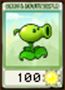
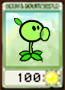
updated plant card images

Changed region(s): [[0.1846, 0.2, 0.8923, 0.7111], [0.1538, 0.4444, 0.1846, 0.4667], [0.1231, 0.4222, 0.1538, 0.4444]]

diff --git a/GameScreen.java b/GameScreen.java
@@ -18,7 +18,11 @@ public class GameScreen extends JFrame {
         setDefaultCloseOperation(WindowConstants.EXIT_ON_CLOSE);
         setLayout(null);
 
-        JLabel sun = new JLabel("SUN");
+        JLabel sun = new JLabel("sun");
+        sun.setLocation(37, 80);
+        sun.setSize(60, 20);
+
+        JLabel sunBar = new JLabel(new ImageIcon(Objects.requireNonNull(this.getClass().getResource("images/sunBar.png"))));
         sun.setLocation(37, 80);
         sun.setSize(60, 20);
 
@@ -26,18 +30,18 @@ public class GameScreen extends JFrame {
         gp.setLocation(0, 0);
         getLayeredPane().add(gp, 0);
 
-        PlantCard peashooterCard = new PlantCard(new ImageIcon(Objects.requireNonNull(this.getClass().getResource("images/cards/peashooterCard.png"))).getImage());
-        peashooterCard.setAction((ActionEvent e) -> gp.setCurrentPlantingBrush(PlantType.Peashooter));
-        peashooterCard.setLocation(100, 8);
-        getLayeredPane().add(peashooterCard, 0);
 
         PlantCard sunflowerCard = new PlantCard(new ImageIcon(Objects.requireNonNull(this.getClass().getResource("images/cards/sunflowerCard.png"))).getImage());
         sunflowerCard.setAction((ActionEvent e) -> gp.setCurrentPlantingBrush(PlantType.Sunflower));
-        sunflowerCard.setLocation(170, 8);
+        sunflowerCard.setLocation(110, 8);
         getLayeredPane().add(sunflowerCard, 0);
 
+        PlantCard peashooterCard = new PlantCard(new ImageIcon(Objects.requireNonNull(this.getClass().getResource("images/cards/peashooterCard.png"))).getImage());
+        peashooterCard.setAction((ActionEvent e) -> gp.setCurrentPlantingBrush(PlantType.Peashooter));
+        peashooterCard.setLocation(175, 8);
+        getLayeredPane().add(peashooterCard, 0);
 
-
+        getLayeredPane().add(sunBar, 1);
         getLayeredPane().add(sun, 0);
         setResizable(false);
         setVisible(true);

diff --git a/GamePanel.java b/GamePanel.java
@@ -53,7 +53,7 @@ public class GamePanel extends JLayeredPane implements MouseMotionListener {
         generateTimer.start();
 
         activeSuns = new ArrayList<>();
-        Timer sunProducer = new Timer(5000, (ActionEvent e) -> {
+        Timer sunProducer = new Timer(7500, (ActionEvent e) -> {
             Random rand = new Random();
             Sun sun = new Sun(this, rand.nextInt(800) + 100, 0, rand.nextInt(300) + 200);
             activeSuns.add(sun);
@@ -113,14 +113,6 @@ public class GamePanel extends JLayeredPane implements MouseMotionListener {
 
 
     private void generate() {
-        //draw peas
-        for (int i = 0; i < 5; i++) {
-            for (int j = 0; j < peaLanes.get(i).size(); j++) {
-                Pea p = peaLanes.get(i).get(j);
-                p.move();
-            }
-        }
-
         //produce sun
         for (int i = 0; i < activeSuns.size(); i++) {
             activeSuns.get(i).create();
@@ -132,9 +124,15 @@ public class GamePanel extends JLayeredPane implements MouseMotionListener {
         super.paintComponent(g);
         g.drawImage(bgImage, 0, 0, null);
 
+        //draw peas
+        for (int i = 0; i < 5; i++) {
+            for (int j = 0; j < peaLanes.get(i).size(); j++) {
+                Pea p = peaLanes.get(i).get(j);
+                p.move();
+            }
+        }
 
-
-        //Draw Plants
+        //draw plants
         for (int i = 0; i < 45; i++) {
             Collider c = colliders[i];
             if (c.assignedPlant != null) {

diff --git a/Sunflower.java b/Sunflower.java
@@ -7,7 +7,7 @@ public class Sunflower extends Plant {
 
     public Sunflower(GamePanel parent, int x, int y) {
         super(parent, x, y);
-        sunProduceTimer = new Timer(15000, (ActionEvent e) -> {
+        sunProduceTimer = new Timer(10000, (ActionEvent e) -> {
             Sun sun = new Sun(getGp(), 60 + x * 100, 110 + y * 120, 130 + y * 120);
             getGp().getActiveSuns().add(sun);
             getGp().add(sun, 1);

diff --git a/PlantCard.java b/PlantCard.java
@@ -11,7 +11,7 @@ public class PlantCard extends JPanel implements MouseListener {
     private ActionListener listener;
 
     public PlantCard(Image img) {
-        setSize(64, 90);
+        setSize(65, 90);
         this.img = img;
         addMouseListener(this);
     }
